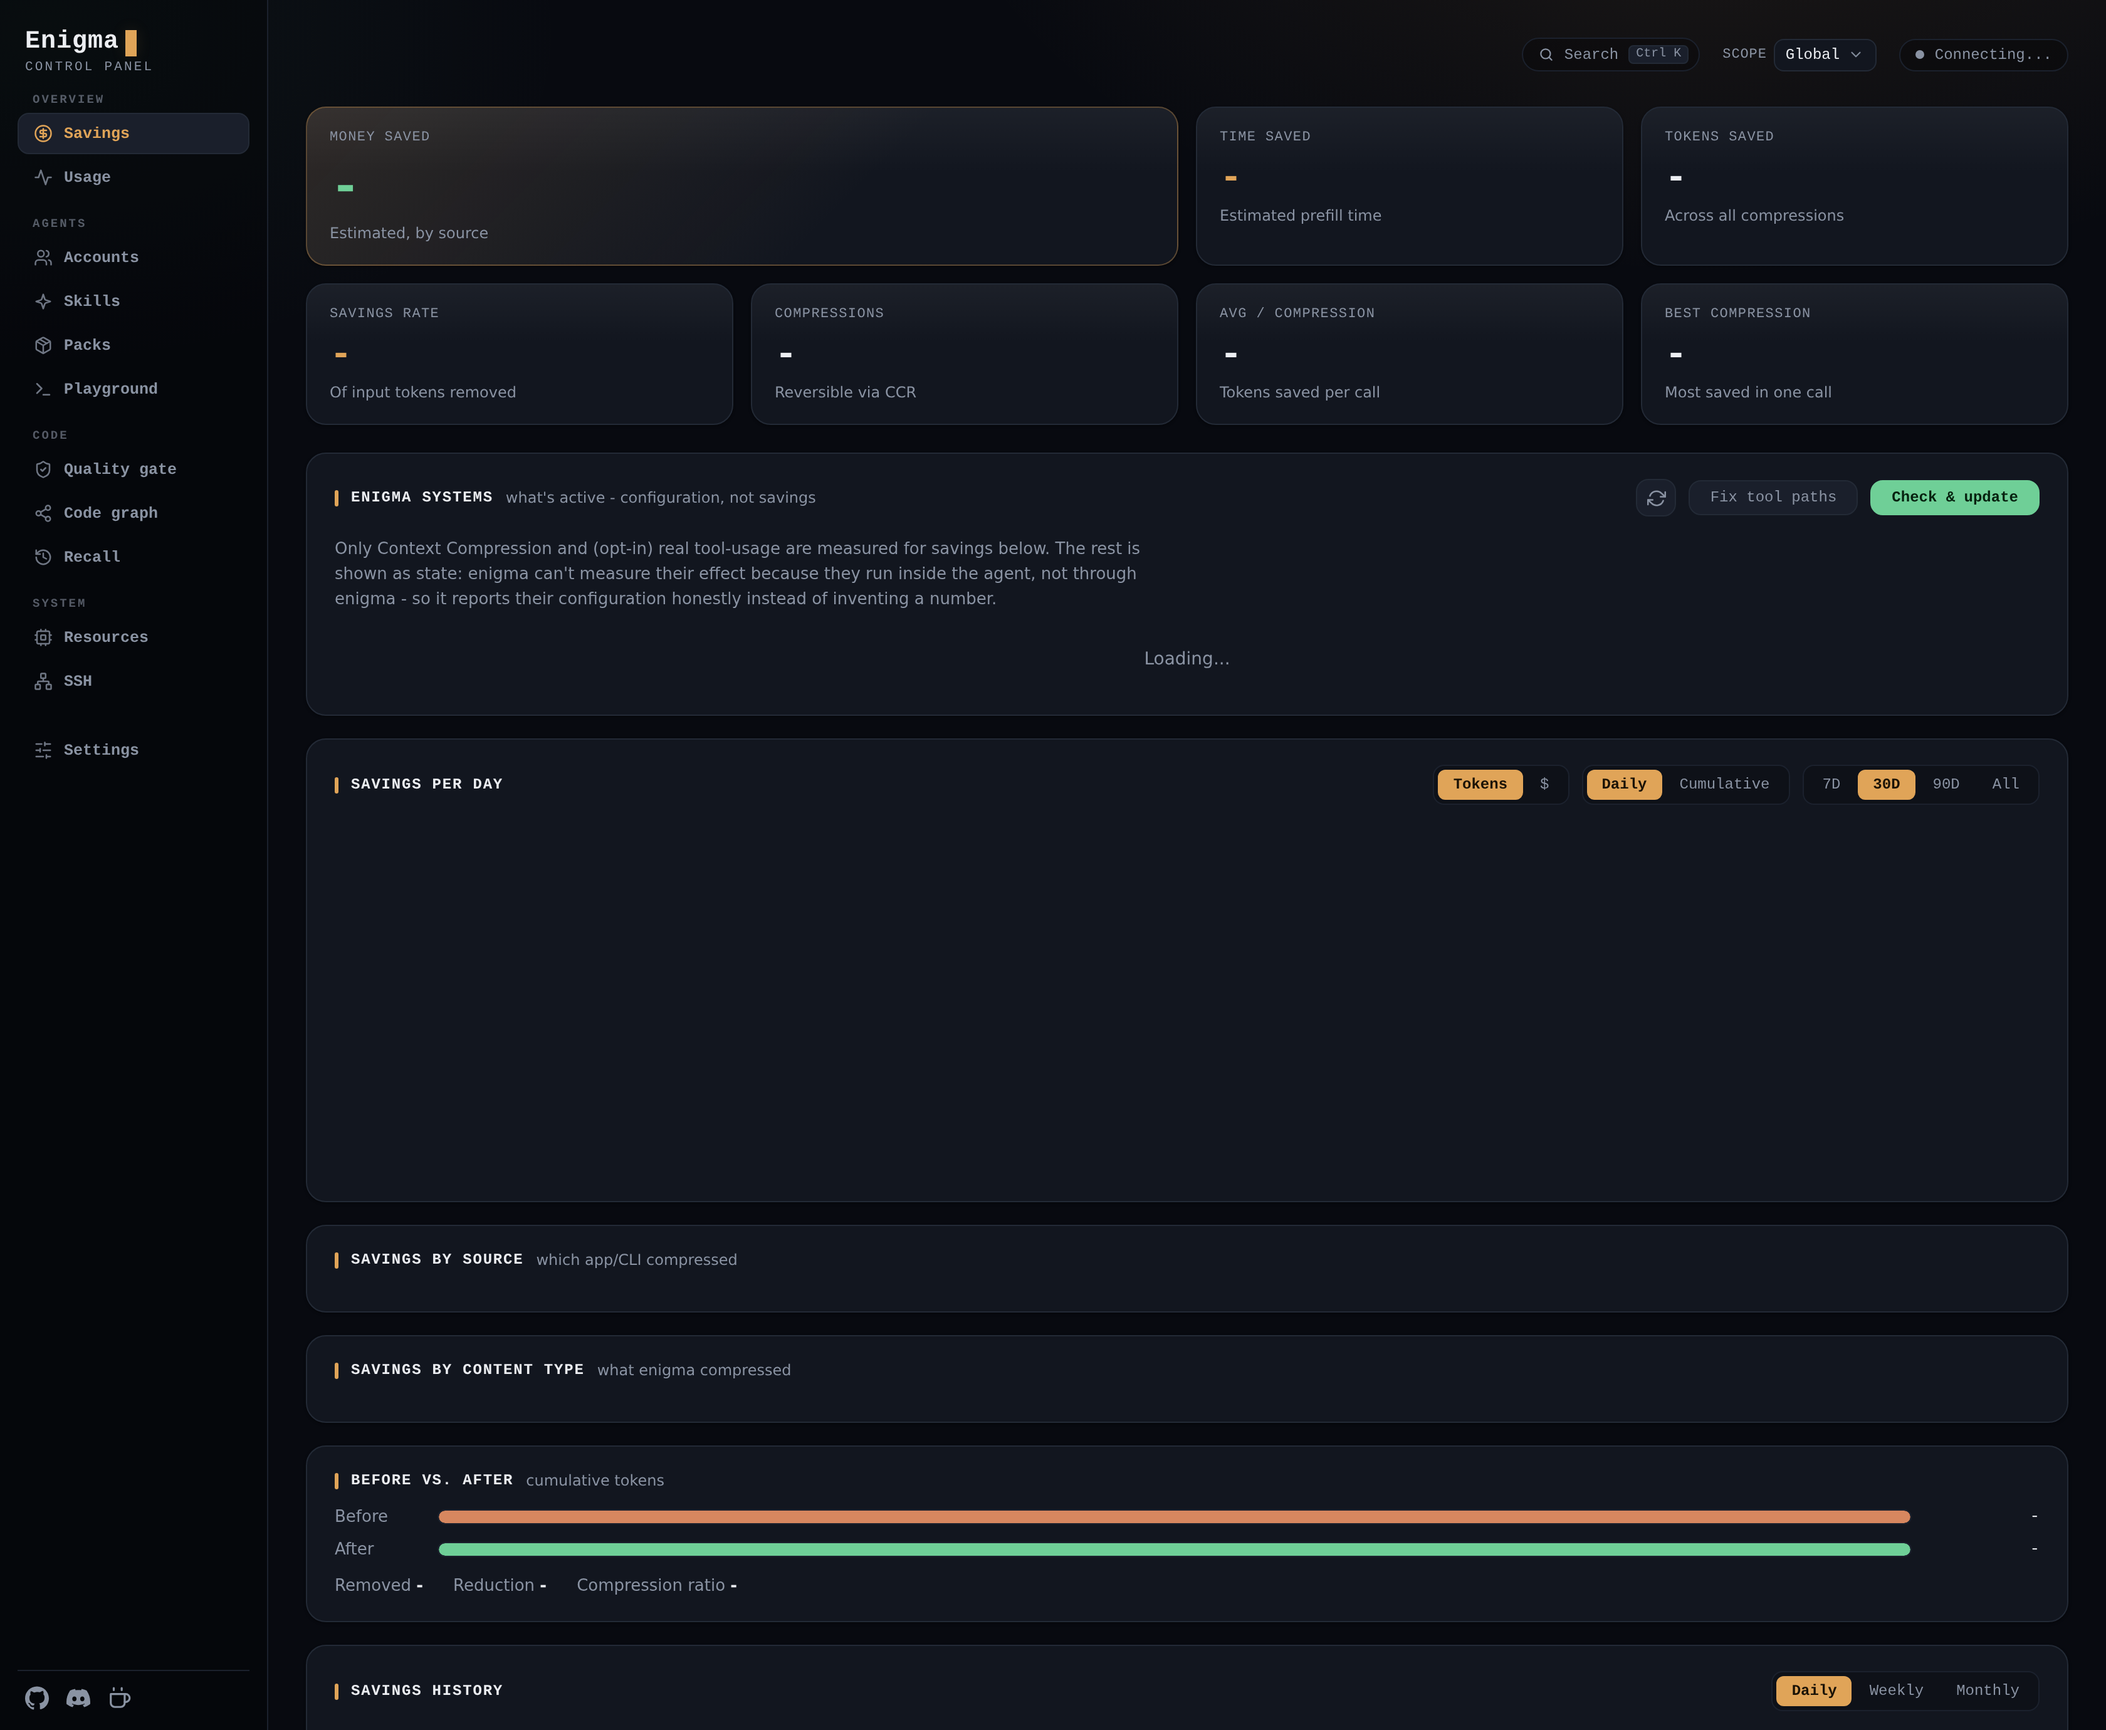
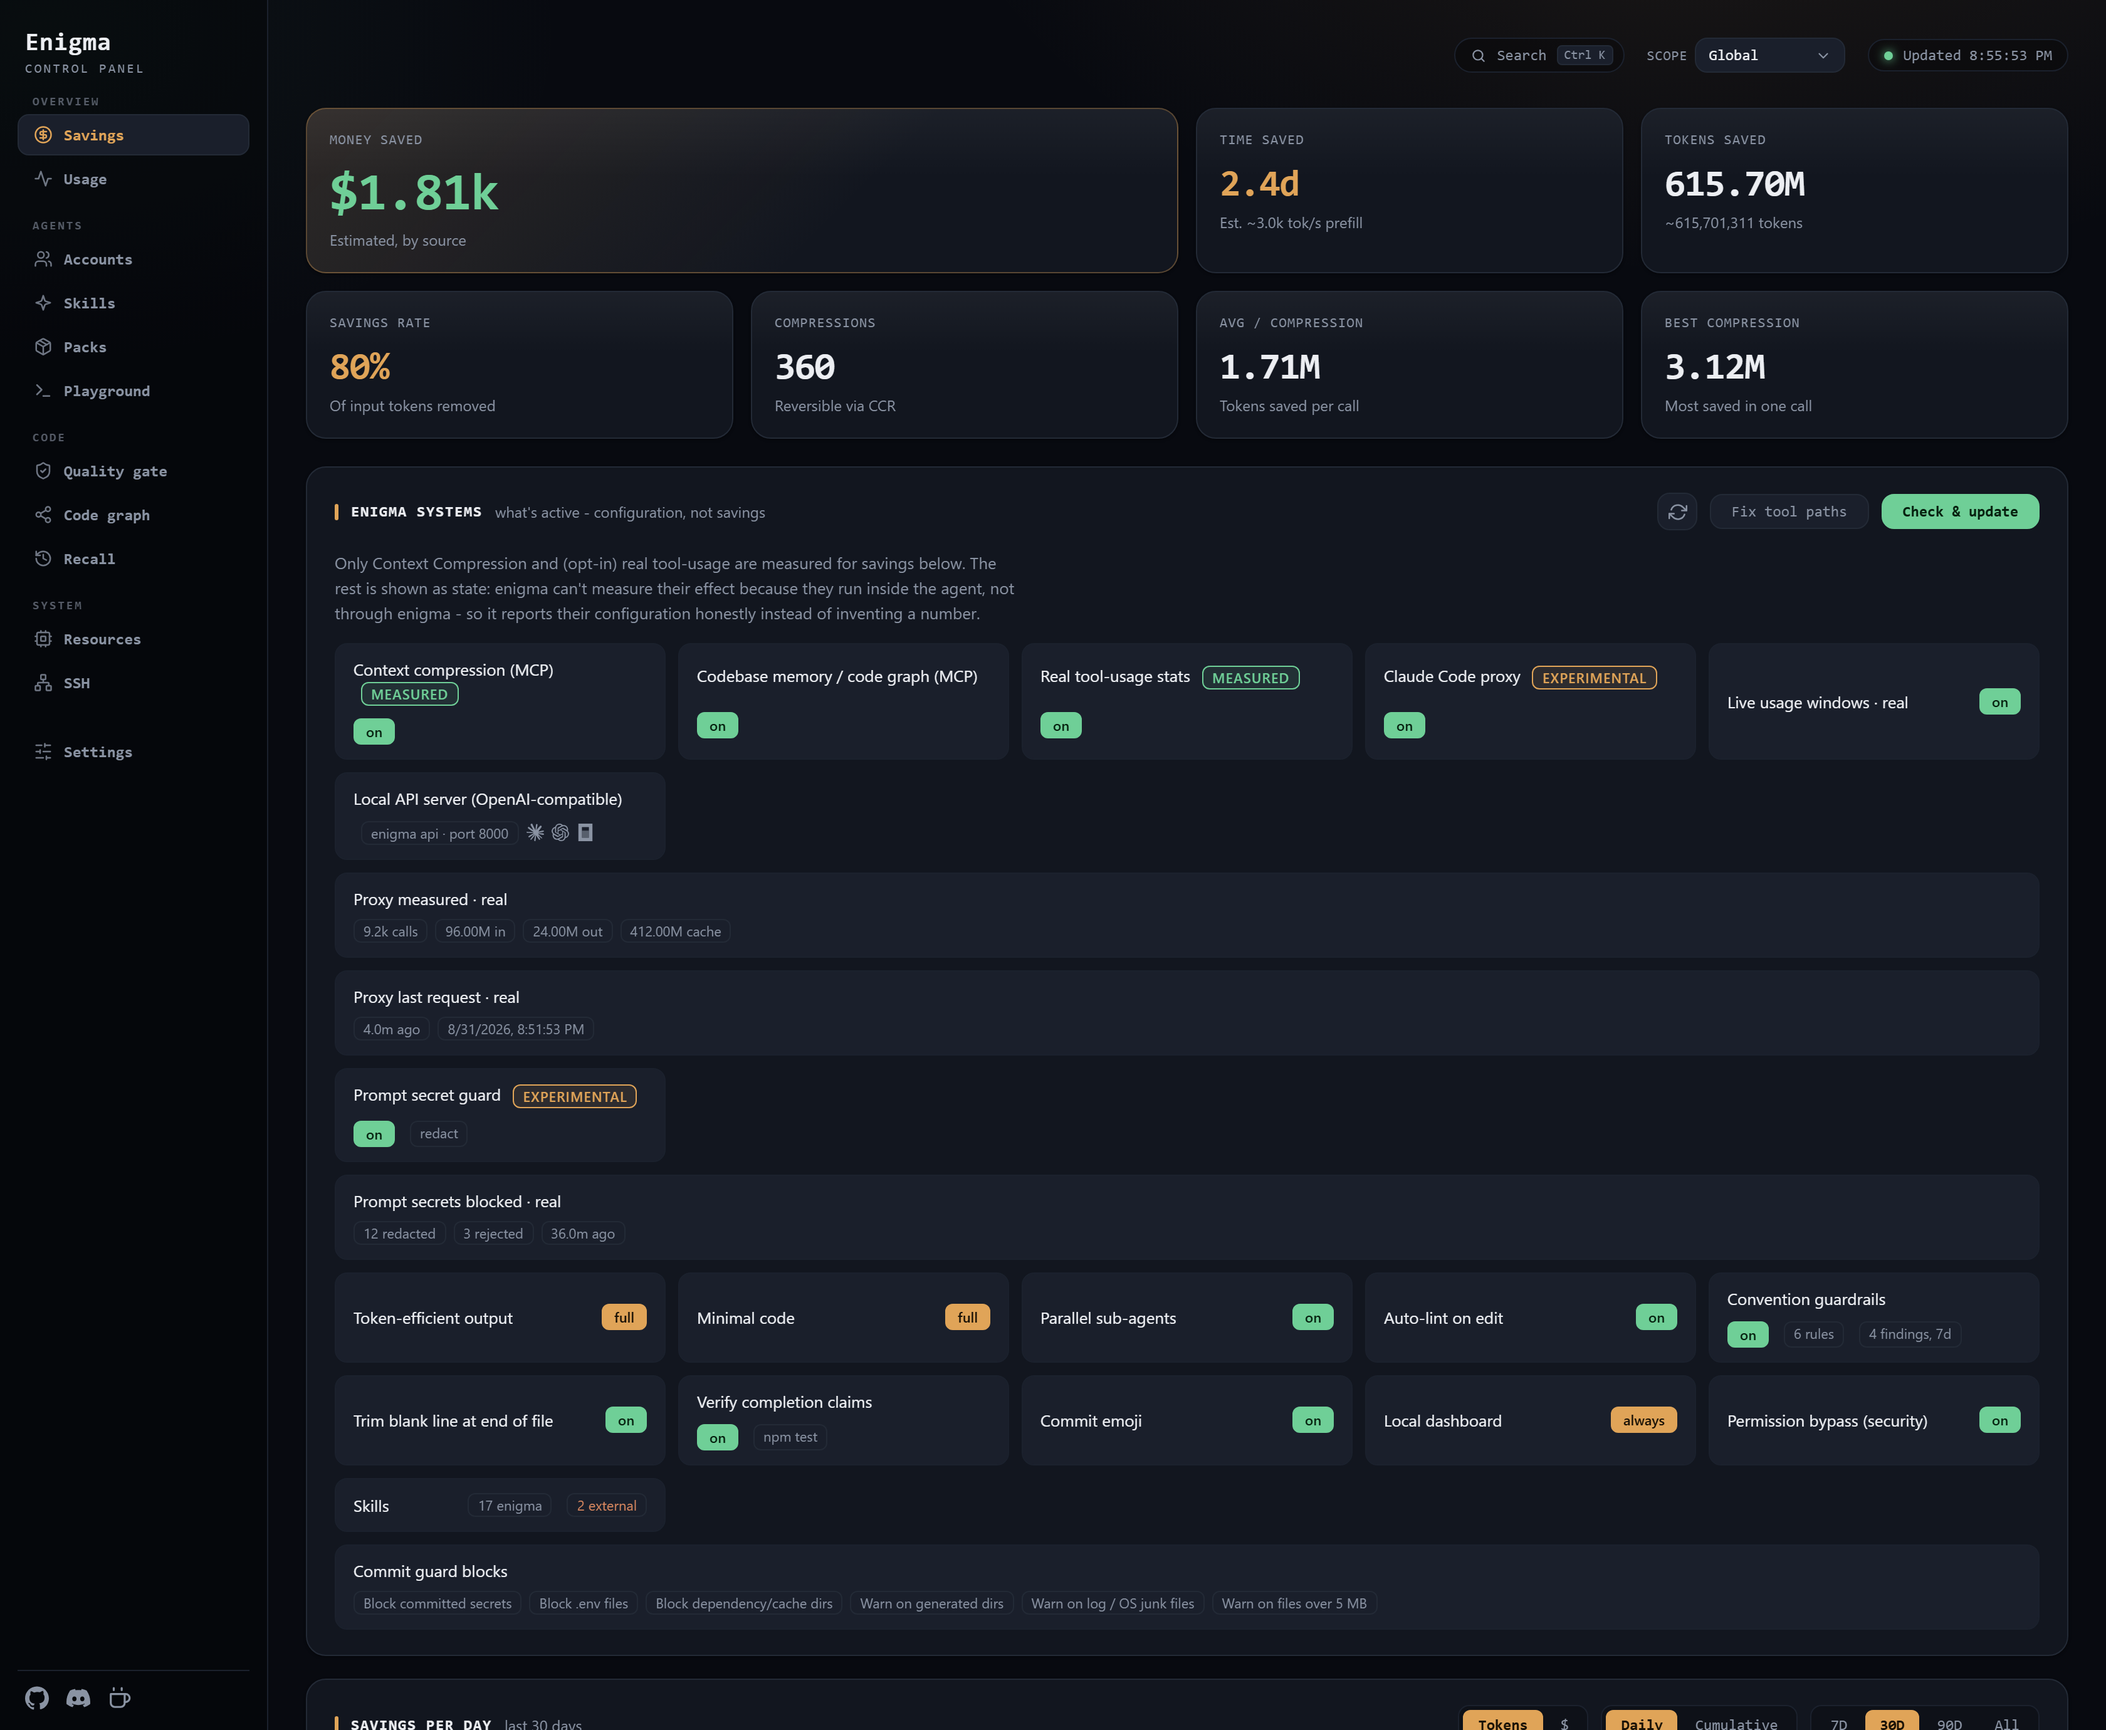
🐛 fix(dashboard): the README preview came out with a dash in every card
The preview server named ONE file under lib/ and 404'd the rest, so the day the
dashboard started loading a second one the page threw before it filled a single
card. It serves the directory now.

The page also stops being one throw away from blank: it is a single script, so a
missing vendored file took every panel below it with it. The four things called
at module scope have stand-ins, and the palette is the only thing that degrades.

Verified both ways in a browser - with the bundle and with it deliberately 404'd,
the cards render either way - and the preview is regenerated.

diff --git a/packages/dashboard/assets/index.html b/packages/dashboard/assets/index.html
@@ -5057,7 +5057,17 @@ export {
         // Palette"). enigma: the dashboard is a single dependency-free HTML file served over
         // loopback, so the ~20-line matcher below stands in for fuse.js - upgrade to fuse.js
         // if this page ever gains a build step.
-        const { createSearch, subsequenceMatcher, moveActive, groupRows, createRecentStore, shortcutLabel, isPaletteShortcut } = window.EnigmaPrimitives;
+        // Guarded rather than destructured outright: this page is ONE script, so a missing
+        // vendored file would throw here and take every panel below it with it - which is
+        // exactly how the README's preview render came out with "-" in every card. Only the
+        // four things called at MODULE scope need a stand-in; the rest are called from
+        // handlers, where a failure is contained to the palette that is already degraded.
+        const primitives = window.EnigmaPrimitives || {};
+        const { moveActive, groupRows, isPaletteShortcut } = primitives;
+        const subsequenceMatcher = primitives.subsequenceMatcher || (() => undefined);
+        const createSearch = primitives.createSearch || (() => ({ setItems() {}, search() {}, searchNow() {}, update() {}, destroy() {} }));
+        const createRecentStore = primitives.createRecentStore || (() => ({ list: () => [], remember: () => [], forget: () => [], clear() {} }));
+        const shortcutLabel = primitives.shortcutLabel || ((key) => "Ctrl " + key);
         const palBack = $("palBack"), palInput = $("palInput"), palList = $("palList");
         let palItems = [], palSel = 0, palReturnFocus = null;
         $("palHint").textContent = shortcutLabel("K");
